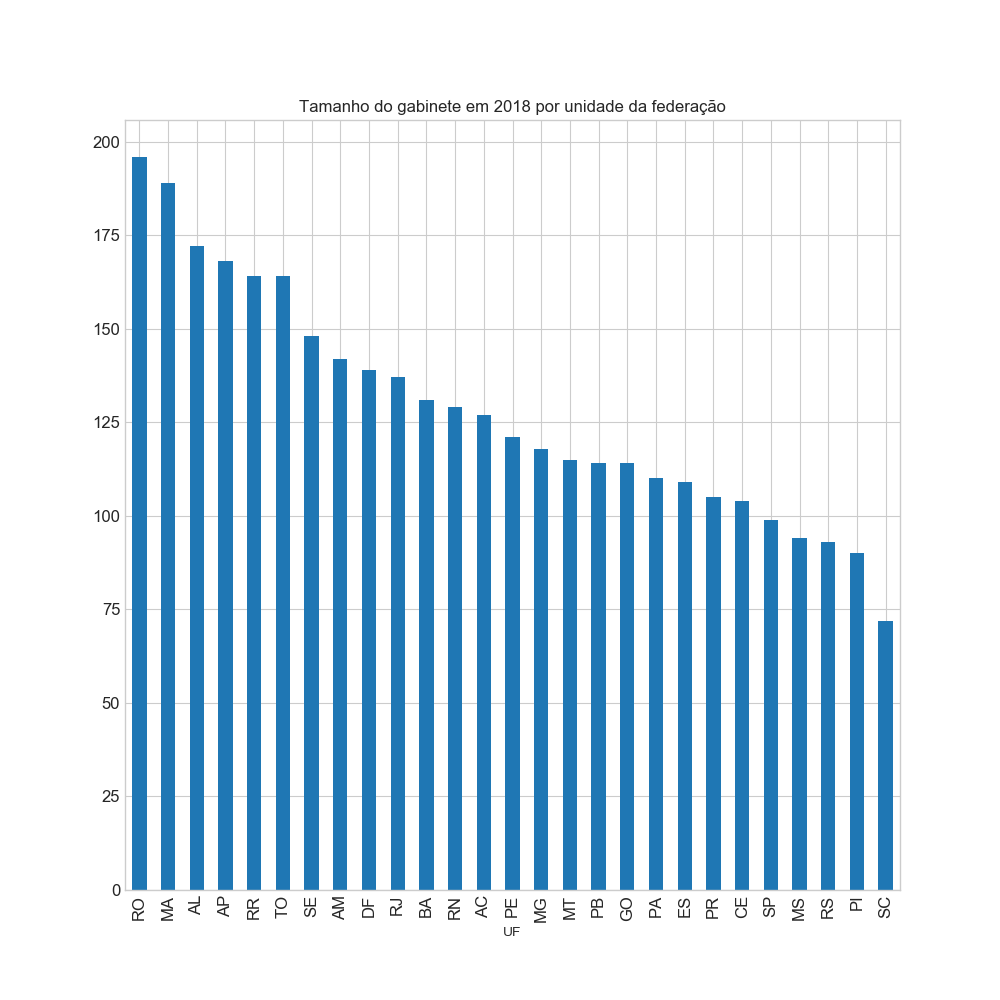
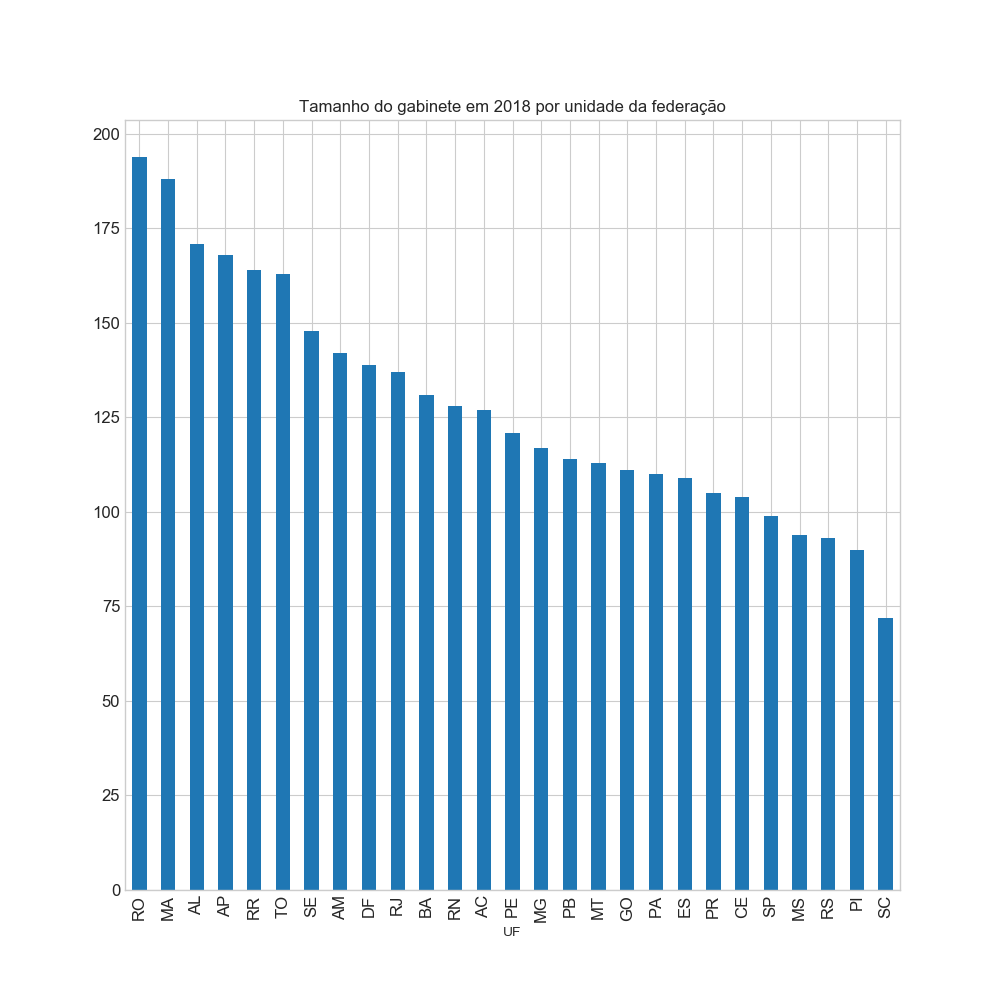
Atualização de dados do Senado (55)- auto

diff --git a/index.html b/index.html
@@ -29,9 +29,9 @@
       <div class="row"><b class="SenadoSubTitle">Informações de despesas de senadores</b><br></div>
       <div class="row"><b class="SenadoSubTitle">Dados coletados em 
 <!--Data-->       
-07/08/2018 às 
+08/08/2018 às 
 <!--Hora-->
-18:43:46      </b><br></div>
+12:54:20      </b><br></div>
       <br>
       <div class="TextoImagem">
         <center>
@@ -137,7 +137,7 @@
               <td>4</td>
               <td align='middle'><a href='http://www6g.senado.leg.br/transparencia/sen/945/?ano=2018' target='_blank'><img src='fotos/senador945.jpg' height='51' width='42'><span class='fototip'>Crédito foto: Cléber Medeiros/Supres</span></a></td>
               <td align='left'>Alvaro Dias</td>
-              <td align='left' class='gastos' name='945'>R$ 497.740,67</td>
+              <td align='left' class='gastos' name='945'>R$ 497.742,52</td>
               <td align='left'>Titular</td>
               <td align='middle'>PR</td>
               <td align='left'>PODE</td>
@@ -148,7 +148,7 @@
               <td>5</td>
               <td align='middle'><a href='http://www6g.senado.leg.br/transparencia/sen/4988/?ano=2018' target='_blank'><img src='fotos/senador4988.jpg' height='51' width='42'><span class='fototip'>Crédito foto: Beto Oliveira/Supres</span></a></td>
               <td align='left'>Ana Amélia</td>
-              <td align='left' class='gastos' name='4988'>R$ 796.275,29</td>
+              <td align='left' class='gastos' name='4988'>R$ 796.278,99</td>
               <td align='left'>Titular</td>
               <td align='middle'>RS</td>
               <td align='left'>PP</td>
@@ -170,7 +170,7 @@
               <td>7</td>
               <td align='middle'><a href='http://www6g.senado.leg.br/transparencia/sen/5529/?ano=2018' target='_blank'><img src='fotos/senador5529.jpg' height='51' width='42'><span class='fototip'>Crédito foto: Senado Federal</span></a></td>
               <td align='left'>Antonio Anastasia</td>
-              <td align='left' class='gastos' name='5529'>R$ 1.290.789,39</td>
+              <td align='left' class='gastos' name='5529'>R$ 1.290.817,05</td>
               <td align='left'>Titular</td>
               <td align='middle'>MG</td>
               <td align='left'>PSDB</td>
@@ -207,7 +207,7 @@
               <td align='left'>1º Suplente</td>
               <td align='middle'>TO</td>
               <td align='left'>PSDB</td>
-              <td align='right'>53 pessoas</td>
+              <td align='right'>52 pessoas</td>
               <td align='right'>42 meses</td>
             </tr>
             <tr>
@@ -284,7 +284,7 @@
               <td align='left'>Titular</td>
               <td align='middle'>MA</td>
               <td align='left'>MDB</td>
-              <td align='right'>49 pessoas</td>
+              <td align='right'>48 pessoas</td>
               <td align='right'>0 meses</td>
             </tr>
             <tr>
@@ -361,14 +361,14 @@
               <td align='left'>Titular</td>
               <td align='middle'>AL</td>
               <td align='left'>PTC</td>
-              <td align='right'>56 pessoas</td>
+              <td align='right'>55 pessoas</td>
               <td align='right'>42 meses</td>
             </tr>
             <tr>
               <td>25</td>
               <td align='middle'><a href='http://www6g.senado.leg.br/transparencia/sen/3634/?ano=2018' target='_blank'><img src='fotos/senador3634.jpg' height='51' width='42'><span class='fototip'>Crédito foto: Beto Oliveira/Supres</span></a></td>
               <td align='left'>Flexa Ribeiro</td>
-              <td align='left' class='gastos' name='3634'>R$ 1.717.042,76</td>
+              <td align='left' class='gastos' name='3634'>R$ 1.717.599,59</td>
               <td align='left'>Titular</td>
               <td align='middle'>PA</td>
               <td align='left'>PSDB</td>
@@ -383,7 +383,7 @@
               <td align='left'>Titular</td>
               <td align='middle'>RN</td>
               <td align='left'>MDB</td>
-              <td align='right'>44 pessoas</td>
+              <td align='right'>43 pessoas</td>
               <td align='right'>42 meses</td>
             </tr>
             <tr>
@@ -405,14 +405,14 @@
               <td align='left'>Titular</td>
               <td align='middle'>AC</td>
               <td align='left'>PP</td>
-              <td align='right'>43 pessoas</td>
+              <td align='right'>42 pessoas</td>
               <td align='right'>38 meses</td>
             </tr>
             <tr>
               <td>29</td>
               <td align='middle'><a href='http://www6g.senado.leg.br/transparencia/sen/5006/?ano=2018' target='_blank'><img src='fotos/senador5006.jpg' height='51' width='42'><span class='fototip'>Crédito foto: Senado Federal</span></a></td>
               <td align='left'>Gleisi Hoffmann</td>
-              <td align='left' class='gastos' name='5006'>R$ 1.430.156,49</td>
+              <td align='left' class='gastos' name='5006'>R$ 1.430.162,24</td>
               <td align='left'>Titular</td>
               <td align='middle'>PR</td>
               <td align='left'>PT</td>
@@ -555,7 +555,7 @@
               <td>42</td>
               <td align='middle'><a href='http://www6g.senado.leg.br/transparencia/sen/5533/?ano=2018' target='_blank'><img src='fotos/senador5533.jpg' height='51' width='42'><span class='fototip'>Crédito foto: Senado Federal</span></a></td>
               <td align='left'>Lasier Martins</td>
-              <td align='left' class='gastos' name='5533'>R$ 946.894,04</td>
+              <td align='left' class='gastos' name='5533'>R$ 946.895,89</td>
               <td align='left'>Titular</td>
               <td align='middle'>RS</td>
               <td align='left'>PSD</td>
@@ -654,7 +654,7 @@
               <td>51</td>
               <td align='middle'><a href='http://www6g.senado.leg.br/transparencia/sen/3741/?ano=2018' target='_blank'><img src='fotos/senador3741.jpg' height='51' width='42'><span class='fototip'>Crédito foto: Cléber Medeiros/Supres</span></a></td>
               <td align='left'>Paulo Bauer</td>
-              <td align='left' class='gastos' name='3741'>R$ 1.578.719,06</td>
+              <td align='left' class='gastos' name='3741'>R$ 1.578.735,36</td>
               <td align='left'>Titular</td>
               <td align='middle'>SC</td>
               <td align='left'>PSDB</td>
@@ -720,11 +720,11 @@
               <td>57</td>
               <td align='middle'><a href='http://www6g.senado.leg.br/transparencia/sen/5072/?ano=2018' target='_blank'><img src='fotos/senador5072.jpg' height='51' width='42'><span class='fototip'>Crédito foto: Senado Federal</span></a></td>
               <td align='left'>Reditario Cassol</td>
-              <td align='left' class='gastos' name='5072'>R$ 11.582,51</td>
+              <td align='left' class='gastos' name='5072'>R$ 11.754,47</td>
               <td align='left'>1º Suplente</td>
               <td align='middle'>RO</td>
               <td align='left'>PP</td>
-              <td align='right'>77 pessoas</td>
+              <td align='right'>75 pessoas</td>
               <td align='right'>0 meses</td>
             </tr>
             <tr>
@@ -878,14 +878,14 @@
               <td align='left'>Titular</td>
               <td align='middle'>AC</td>
               <td align='left'>PSD</td>
-              <td align='right'>42 pessoas</td>
+              <td align='right'>43 pessoas</td>
               <td align='right'>42 meses</td>
             </tr>
             <tr>
               <td>72</td>
               <td align='middle'><a href='http://www6g.senado.leg.br/transparencia/sen/5527/?ano=2018' target='_blank'><img src='fotos/senador5527.jpg' height='51' width='42'><span class='fototip'>Crédito foto: Fabiano Accorsi</span></a></td>
               <td align='left'>Simone Tebet</td>
-              <td align='left' class='gastos' name='5527'>R$ 778.719,20</td>
+              <td align='left' class='gastos' name='5527'>R$ 779.033,03</td>
               <td align='left'>Titular</td>
               <td align='middle'>MS</td>
               <td align='left'>MDB</td>
@@ -955,7 +955,7 @@
               <td align='left'>Titular</td>
               <td align='middle'>MT</td>
               <td align='left'>PR</td>
-              <td align='right'>43 pessoas</td>
+              <td align='right'>41 pessoas</td>
               <td align='right'>0 meses</td>
             </tr>
             <tr>
@@ -966,7 +966,7 @@
               <td align='left'>1º Suplente</td>
               <td align='middle'>GO</td>
               <td align='left'>DEM</td>
-              <td align='right'>33 pessoas</td>
+              <td align='right'>30 pessoas</td>
               <td align='right'>42 meses</td>
             </tr>
             <tr>
@@ -977,7 +977,7 @@
               <td align='left'>1º Suplente</td>
               <td align='middle'>MG</td>
               <td align='left'>MDB</td>
-              <td align='right'>63 pessoas</td>
+              <td align='right'>62 pessoas</td>
               <td align='right'>44 meses</td>
             </tr>
           </tbody>
